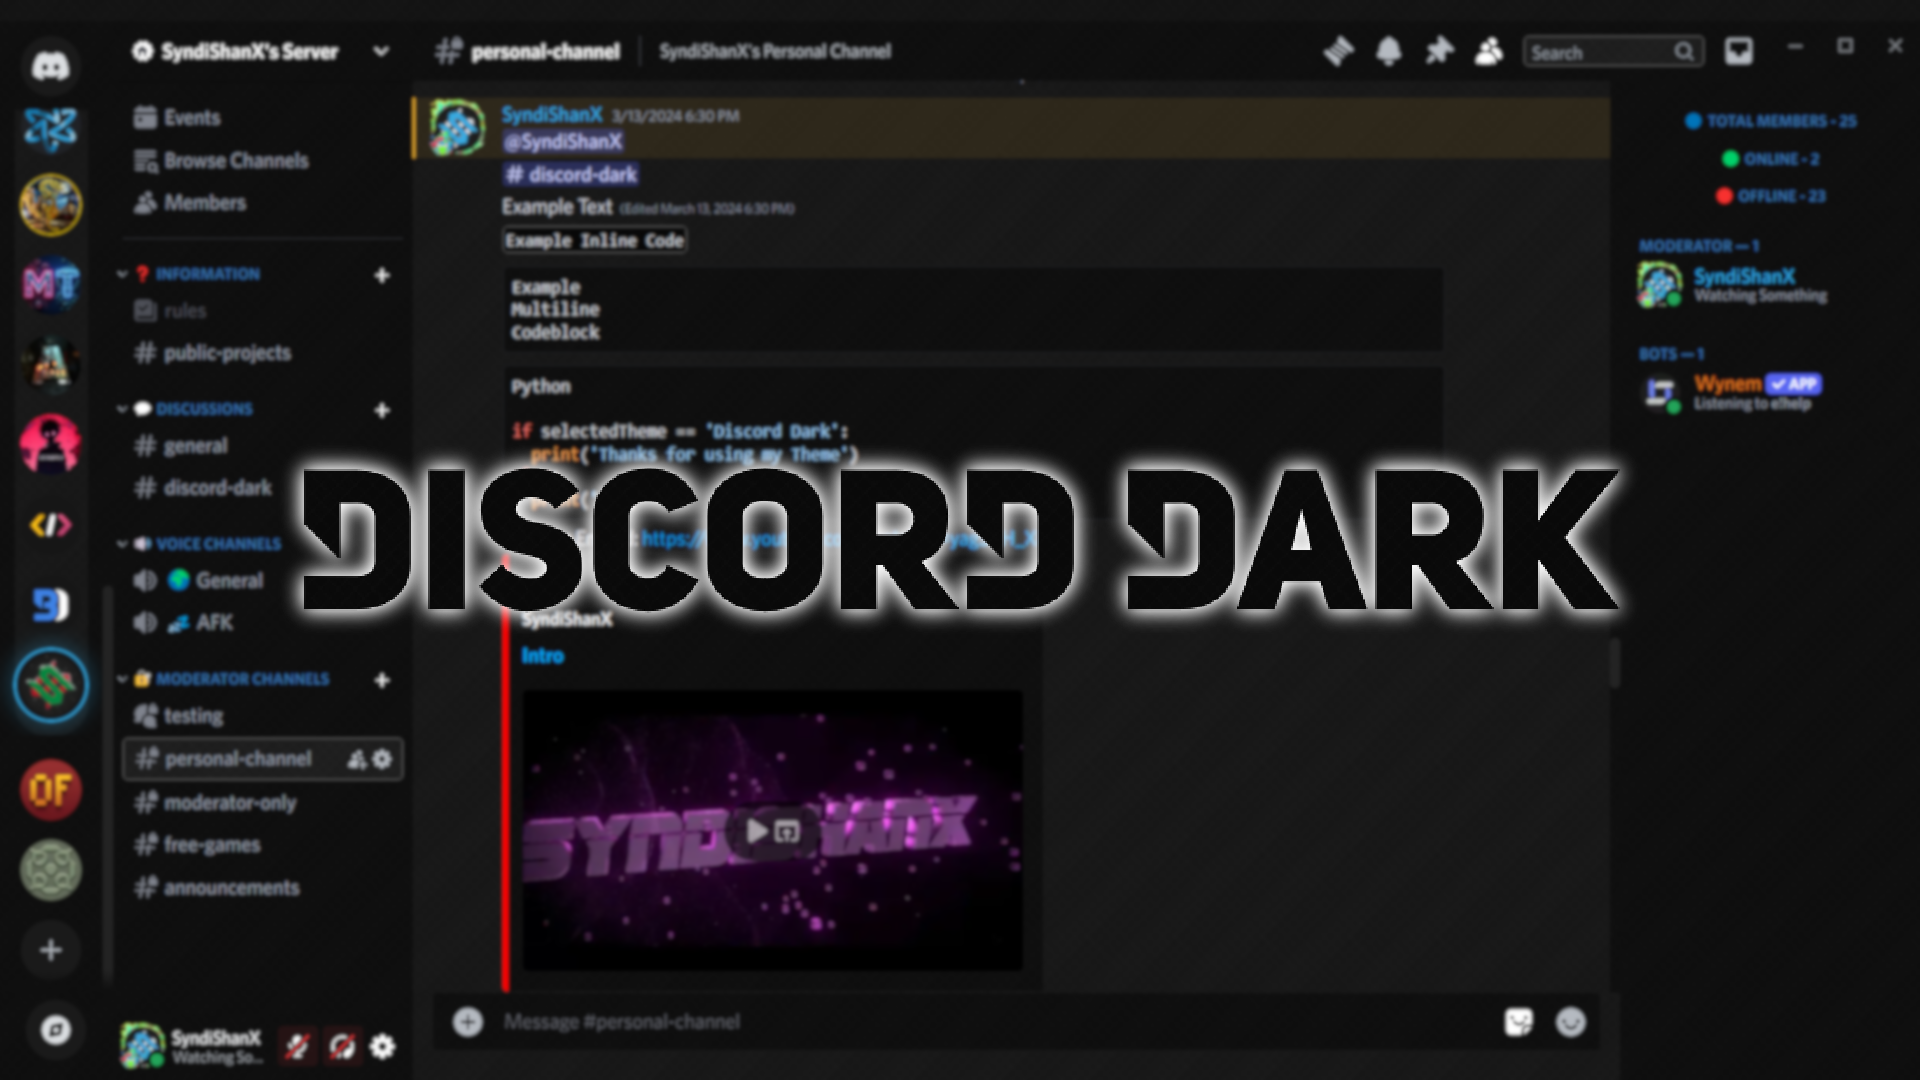
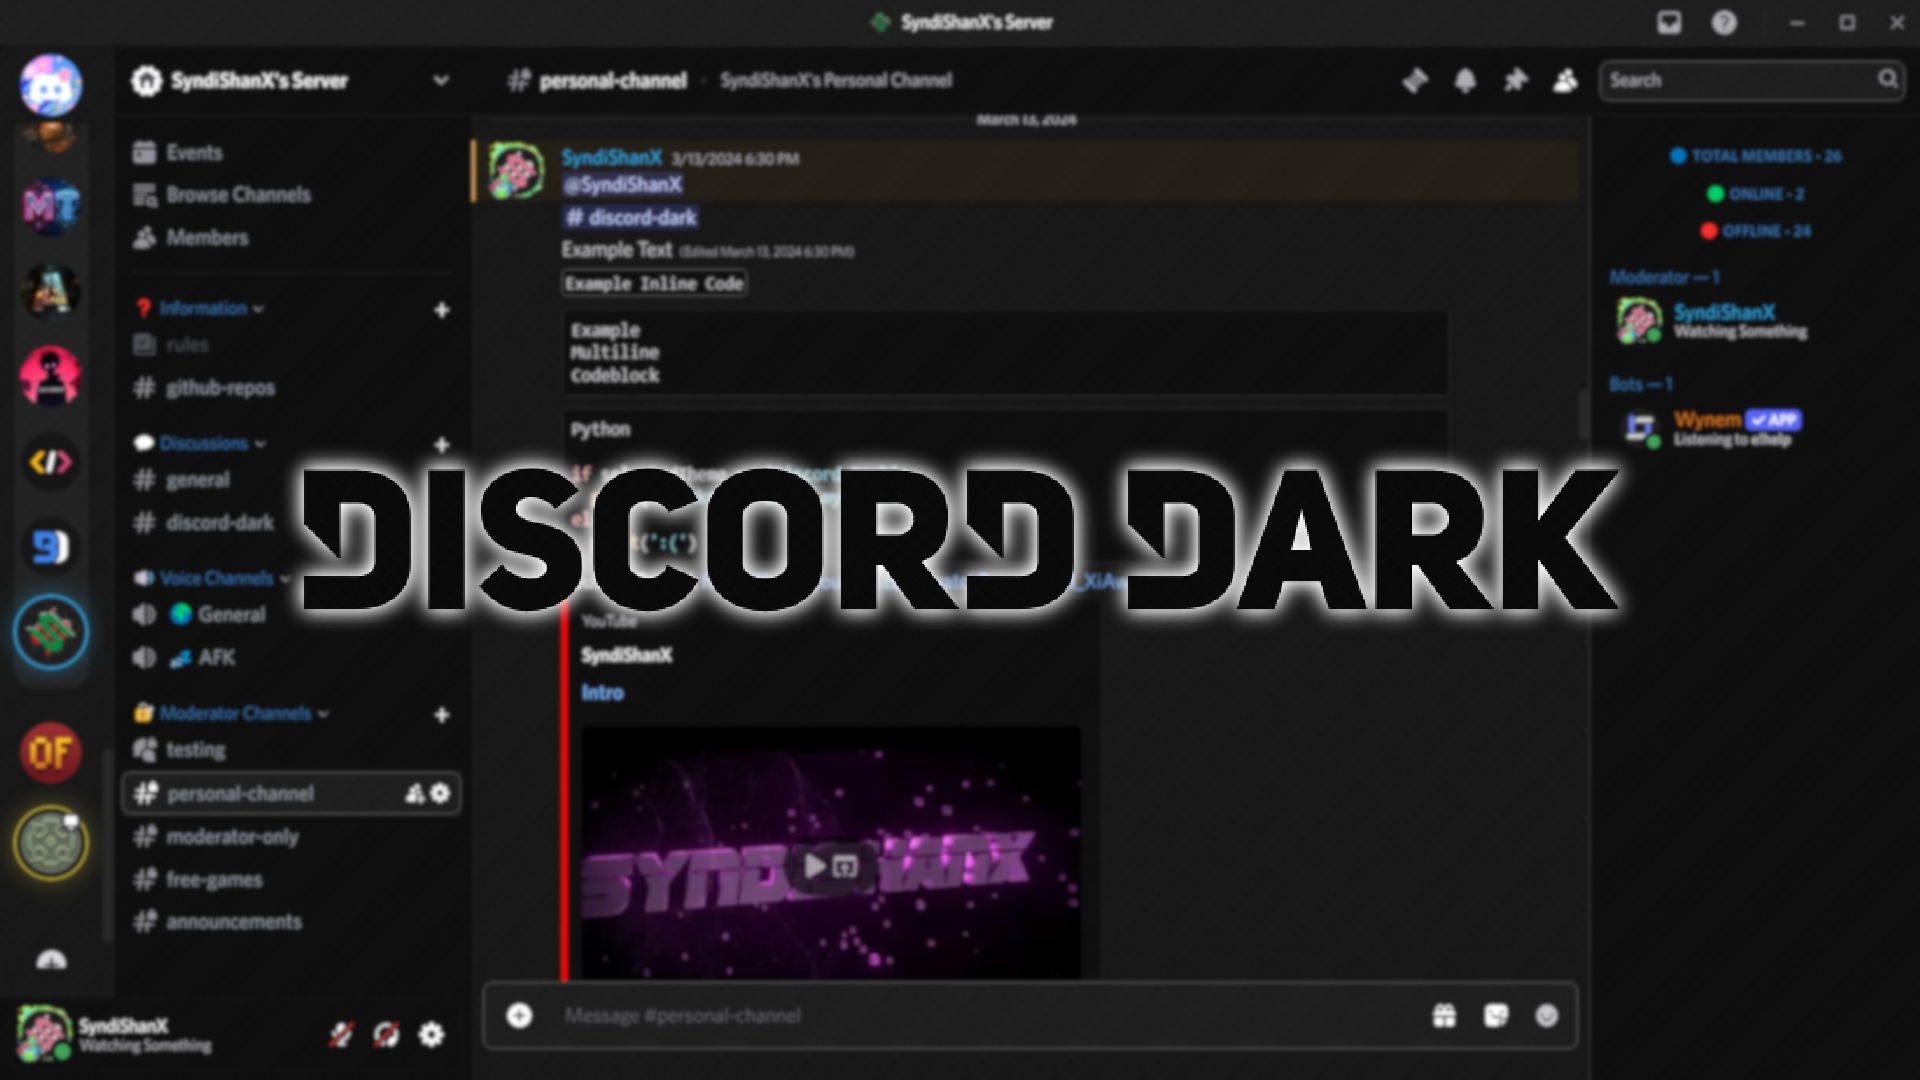
Fixed Embeds and Updated Preview Images

diff --git a/discorddark.css b/discorddark.css
@@ -59,7 +59,7 @@
 .bd-search-wrapper, .bd-error-modal-footer, .bd-addon-modal, .bd-modal-footer, .bd-modal-small, .bd-changelog-modal, .connectionHeader_c7f964, .accountProfileCard__1fed1,
 code, .repliedMessage_c19a55:not(.latin24CompactTimeStamp_c19a55), .peopleColumn__133bf, .spoilerContent__54ab5, .sidebar_c48ade:after, .standardSidebarView__23e6b, .box_f8c98c,
 .modalBody_b83a17, .resultsGroup__56fec, .searchFilter_bd8186, .searchAnswer_bd8186, .container_f792fa, .sidebarCard_f792fa, .measurement__6ba63,
-.embedWrapper_b7e1cb:not(:has(.imageContainer__0f481)),
+.embedWrapper_b7e1cb:not(.imageContent__0f481),
 .pillContainer__9e06a, .joinOptions__959cb, .onboardingStepContainer__28e57, .notice_a9b452, .review_a9b452 {
   background-image: var(--bgDarkness3) !important;
   background-clip: border-box !important;
